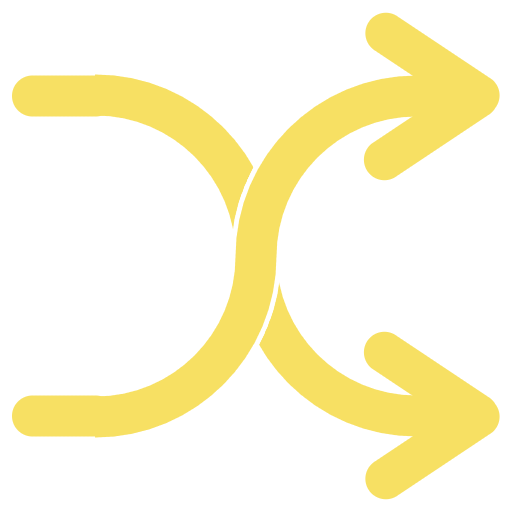
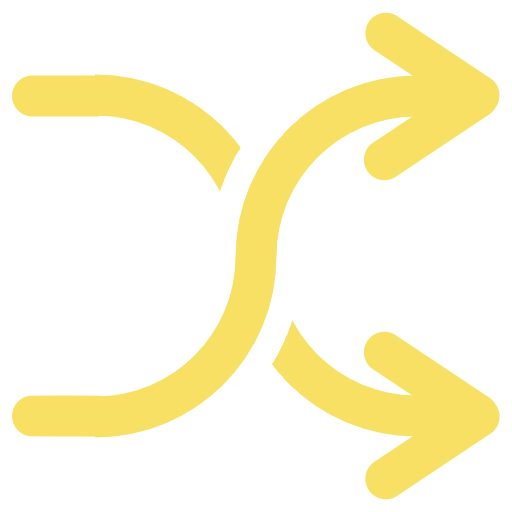
02-Mar-23

Changed region(s): [[0.5, 0.5625, 0.5938, 0.7188], [0.4062, 0.2812, 0.5, 0.4375]]

diff --git a/pages/links.py b/pages/links.py
@@ -178,7 +178,7 @@ class glb:
             "Modified": 0
         },
         "Vodafone.png": {
-            "url": "https://www.Vodafone.nl/My",
+            "url": "https://www.Vodafone.nl/my",
             "text": "Vodafone",
             "cat": "Stores",
             "Index": 102,
